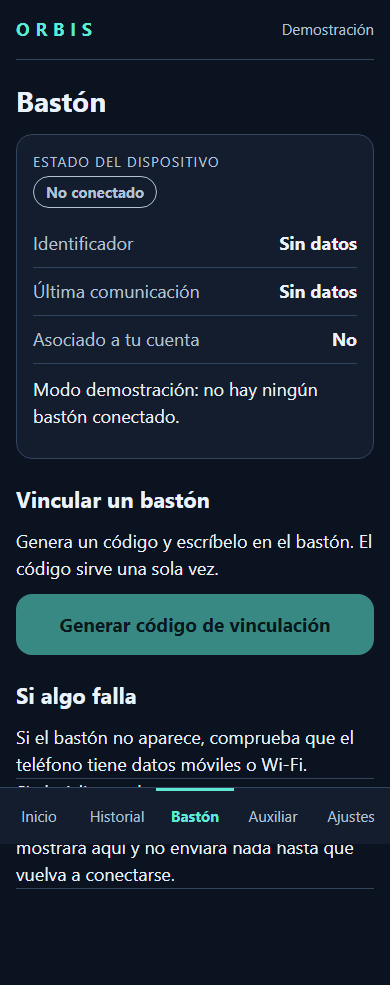
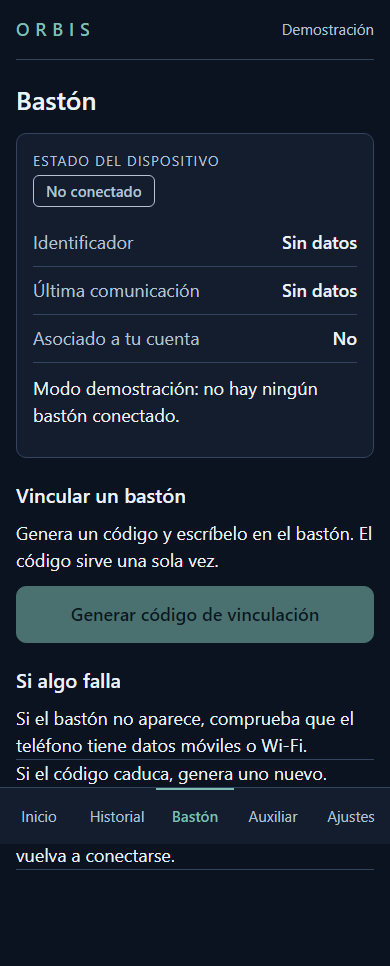
style(app): diseno sobrio y mas serio (solo CSS)

diff --git a/www/css/app.css b/www/css/app.css
@@ -20,8 +20,8 @@ body {
   flex-direction: column;
 }
 
-h1 { font-size: 28px; line-height: 1.2; margin: 0 0 var(--espacio); text-wrap: balance; }
-h2 { font-size: 22px; margin: 24px 0 12px; }
+h1 { font-size: 26px; font-weight: 600; line-height: 1.25; margin: 0 0 var(--espacio); text-wrap: balance; }
+h2 { font-size: 20px; font-weight: 600; line-height: 1.3; margin: 24px 0 12px; }
 p { margin: 0 0 12px; }
 
 .saltar {
@@ -36,7 +36,7 @@ p { margin: 0 0 12px; }
   display: flex; justify-content: space-between; align-items: center; gap: 12px;
   padding: 16px 0; border-bottom: 1px solid var(--borde);
 }
-.marca { margin: 0; font-weight: 700; letter-spacing: 0.32em; color: var(--acento); }
+.marca { margin: 0; font-weight: 600; letter-spacing: 0.32em; color: var(--acento); }
 .estado-conexion { margin: 0; font-size: 15px; color: var(--texto-suave); text-align: right; }
 
 .contenido { flex: 1; padding: 24px 0 96px; outline: none; min-width: 0; }
@@ -51,7 +51,7 @@ p { margin: 0 0 12px; }
   min-height: var(--toque); display: flex; align-items: center; justify-content: center;
   color: var(--texto-suave); text-decoration: none; font-size: 15px; text-align: center; padding: 4px;
 }
-.barra a[aria-current="page"] { color: var(--acento); font-weight: 700; box-shadow: inset 0 3px 0 var(--acento); }
+.barra a[aria-current="page"] { color: var(--acento); font-weight: 600; box-shadow: inset 0 2px 0 var(--acento); }
 
 /* Componentes */
 .tarjeta {
@@ -60,7 +60,7 @@ p { margin: 0 0 12px; }
 }
 .etiqueta { font-size: 14px; color: var(--texto-suave); text-transform: uppercase; letter-spacing: 0.08em; margin: 0 0 4px; }
 .insignia {
-  display: inline-block; font-size: 15px; font-weight: 700; padding: 4px 12px; border-radius: 999px;
+  display: inline-block; font-size: 15px; font-weight: 600; padding: 4px 12px; border-radius: 6px;
   border: 1px solid currentColor;
 }
 .insignia.ok { color: var(--ok); }
@@ -72,8 +72,8 @@ p { margin: 0 0 12px; }
 .boton {
   display: flex; align-items: center; justify-content: center; gap: 8px;
   width: 100%; min-height: var(--toque); padding: 14px 20px; border-radius: var(--radio);
-  border: 2px solid var(--acento); background: var(--acento); color: var(--acento-texto);
-  font: inherit; font-size: 19px; font-weight: 700; cursor: pointer; text-decoration: none;
+  border: 1px solid var(--acento); background: var(--acento); color: var(--acento-texto);
+  font: inherit; font-size: 18px; font-weight: 600; cursor: pointer; text-decoration: none;
   transition: transform var(--transicion), background var(--transicion);
 }
 .boton:active { transform: scale(0.98); }
@@ -81,23 +81,25 @@ p { margin: 0 0 12px; }
 .boton.peligro { background: transparent; color: var(--error); border-color: var(--error); }
 .boton:disabled { opacity: 0.55; cursor: not-allowed; }
 .boton + .boton { margin-top: 12px; }
+section + .tarjeta, .boton + .vacio { margin-top: 16px; }
+a { color: var(--acento); text-underline-offset: 3px; }
 
 .campo { display: flex; flex-direction: column; gap: 8px; margin-bottom: 16px; }
-.campo label { font-size: 17px; font-weight: 700; }
+.campo label { font-size: 17px; font-weight: 600; }
 .campo input {
   min-height: var(--toque); padding: 12px 16px; font: inherit; font-size: 18px;
-  background: var(--superficie-alta); color: var(--texto); border: 2px solid var(--borde); border-radius: var(--radio-pequeno);
+  background: var(--superficie-alta); color: var(--texto); border: 1px solid var(--borde-campo); border-radius: var(--radio-pequeno);
 }
 .campo input:focus { border-color: var(--acento); }
 .campo input[aria-invalid="true"] { border-color: var(--error); }
 .campo .ayuda { font-size: 15px; color: var(--texto-suave); margin: 0; }
-.campo .error-campo { font-size: 16px; color: var(--error); margin: 0; font-weight: 700; }
+.campo .error-campo { font-size: 16px; color: var(--error); margin: 0; font-weight: 600; }
 .fila-contrasena { display: flex; gap: 8px; align-items: stretch; }
 .fila-contrasena input { flex: 1; min-width: 0; }
 .fila-contrasena .boton { width: auto; min-width: 104px; font-size: 16px; padding: 10px 12px; }
 
 .mensaje-error {
-  border: 2px solid var(--error); border-radius: var(--radio); padding: var(--espacio); margin-bottom: 16px; color: var(--texto);
+  border: 1px solid var(--error); border-radius: var(--radio); padding: var(--espacio); margin-bottom: 16px; color: var(--texto);
 }
 .mensaje-error strong { color: var(--error); display: block; margin-bottom: 4px; }
 
@@ -121,7 +123,7 @@ p { margin: 0 0 12px; }
 
 .fila { display: flex; justify-content: space-between; gap: 12px; padding: 10px 0; border-bottom: 1px solid var(--borde); }
 .fila dt { color: var(--texto-suave); }
-.fila dd { margin: 0; text-align: right; font-weight: 700; }
+.fila dd { margin: 0; text-align: right; font-weight: 600; }
 
 .toggle {
   display: flex; align-items: center; justify-content: space-between; gap: 12px; min-height: var(--toque);
@@ -144,7 +146,7 @@ p { margin: 0 0 12px; }
 
 .codigo {
   font-family: ui-monospace, Consolas, monospace;
-  font-size: 32px; font-weight: 700; letter-spacing: 0.12em;
+  font-size: 32px; font-weight: 600; letter-spacing: 0.12em;
   color: var(--acento); margin: 8px 0 12px; word-break: break-all;
 }
 dl { margin: 0 0 12px; }

diff --git a/www/css/tokens.css b/www/css/tokens.css
@@ -1,18 +1,22 @@
-/* ORBIS: tokens de diseño. Contraste verificado en cada par texto/fondo (WCAG AA >= 4.5:1). */
+/* ORBIS: tokens de diseño. Contraste verificado en cada par texto/fondo (WCAG AA >= 4.5:1).
+   Texto sobre fondos: texto 14.96:1 sobre superficie; texto-suave 9.38:1; acento 8.04:1 sobre superficie;
+   acento-texto 8.13:1 sobre acento; error 8.90:1; aviso 11.72:1; ok 12.03:1.
+   --borde-campo cumple 3:1 (no textual) frente a superficie-alta para el contorno de los campos. */
 :root {
   --fondo: #0B1220;
   --superficie: #131D2E;
   --superficie-alta: #1B2940;
   --texto: #EAF2FB;
   --texto-suave: #B5C2D6;
-  --acento: #5EEAD4;
-  --acento-texto: #04201C;
+  --acento: #7FBFB2;
+  --acento-texto: #06201B;
   --borde: #33445F;
+  --borde-campo: #6B7F9C;
   --ok: #86EFAC;
   --aviso: #FCD34D;
   --error: #FCA5A5;
-  --radio: 16px;
-  --radio-pequeno: 10px;
+  --radio: 10px;
+  --radio-pequeno: 8px;
   --espacio: 16px;
   --toque: 56px;
   --fuente: system-ui, -apple-system, "Segoe UI", Roboto, sans-serif;
